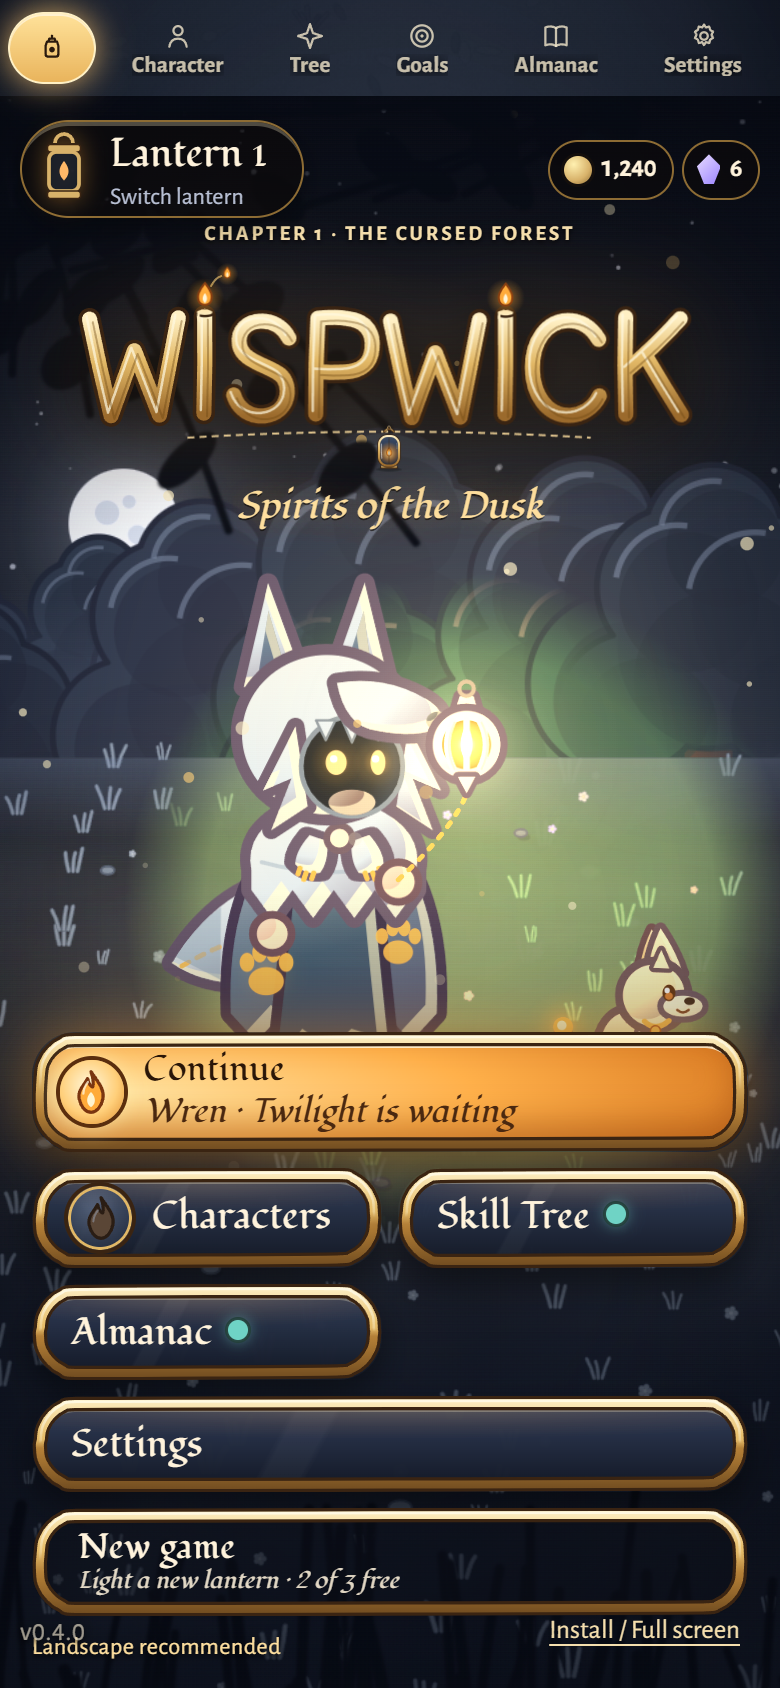
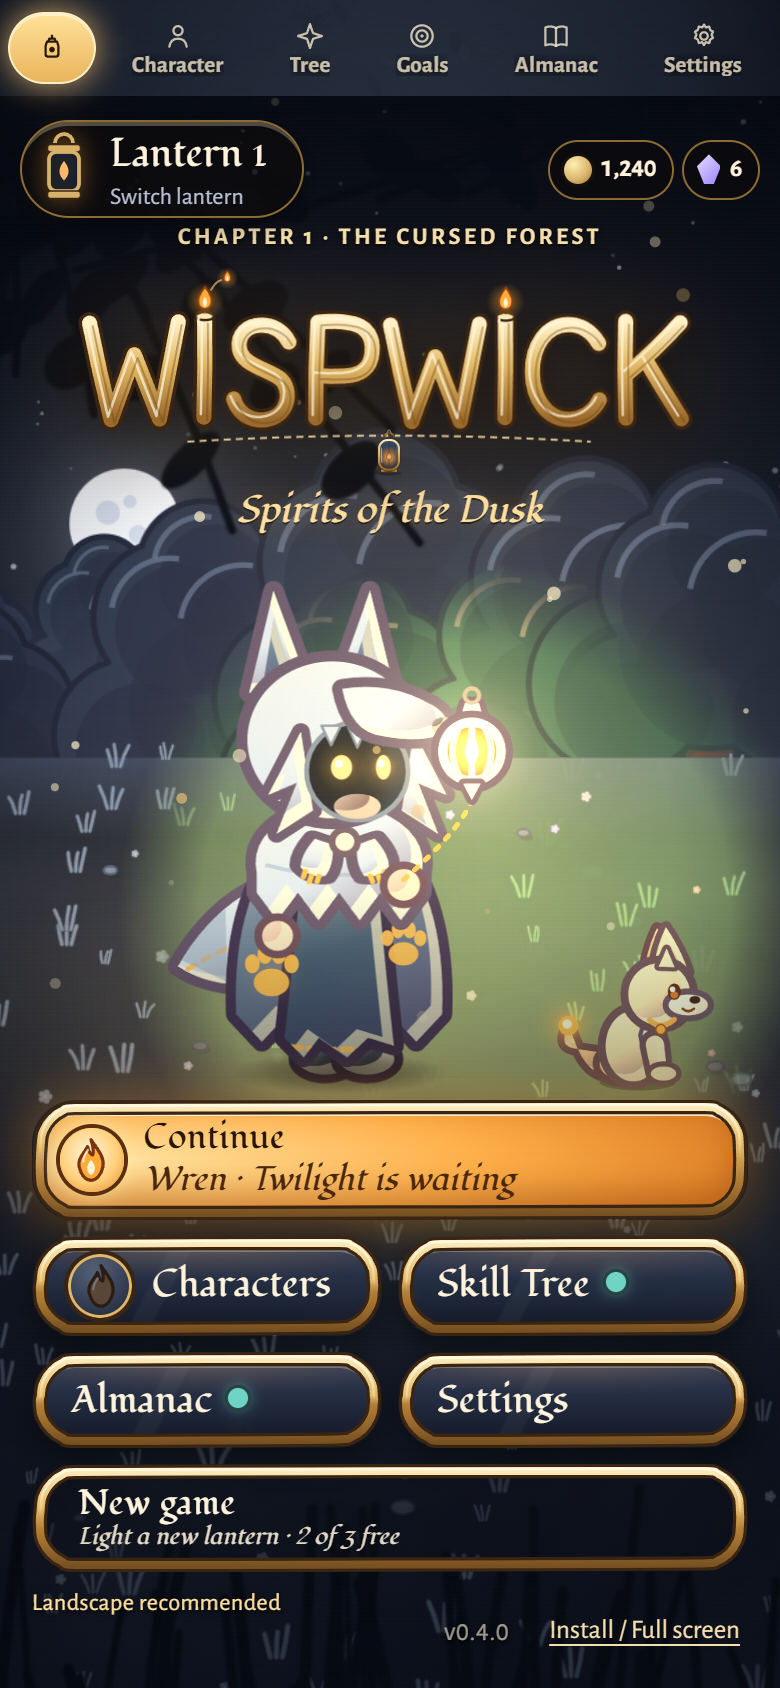
Title cover: layout fixes, install card sheet, cache + bloom once, shots

diff --git a/src/ui/titlecover.css b/src/ui/titlecover.css
@@ -43,7 +43,7 @@ html.reduced-motion .overlay.u3.tc-on .lg-wm-flame path { animation: none; }
 .overlay.u3.tc-on.tc-m-portrait .u3-col { flex: 1 1 auto; min-height: 0; width: 100%; max-width: none; align-items: stretch; justify-content: space-between; gap: 8px; }
 .overlay.u3.tc-on.tc-m-portrait .u3-brand { align-items: center; text-align: center; gap: 4px; }
 .overlay.u3.tc-on.tc-m-portrait .u3-h1 { width: min(88%, 330px); }
-.overlay.u3.tc-on.tc-m-portrait .u3-kicker { font-size: 10.5px; }
+.overlay.u3.tc-on.tc-m-portrait .u3-kicker { font-size: 12px; }
 .overlay.u3.tc-on.tc-m-portrait .u3-tagline { font-size: 19px; }
 .overlay.u3.tc-on.tc-m-portrait .u3-side { align-items: stretch; gap: 6px; }
 .overlay.u3.tc-on.tc-m-portrait .u3-menu.fd-menu2, .overlay.u3.tc-on.tc-m-portrait .u3-menu.fd-menu2:has(.fd-row3), .overlay.u3.tc-on.tc-m-portrait .u3-menu.fd-menu2:has(.ch-btn):has(.fd-row3) { width: 100%; grid-template-columns: repeat(2, minmax(0, 1fr)); gap: 8px; }
@@ -64,7 +64,7 @@ html.reduced-motion .overlay.u3.tc-on .lg-wm-flame path { animation: none; }
 .overlay.u3.tc-on.tc-m-landscape .u3-col { flex: 1 1 auto; min-height: 0; flex-direction: column; align-items: stretch; justify-content: space-between; width: 56%; max-width: none; gap: 6px; }
 .overlay.u3.tc-on.tc-m-landscape .u3-brand { flex: none; align-items: flex-start; text-align: left; gap: 3px; }
 .overlay.u3.tc-on.tc-m-landscape .u3-h1 { width: min(100%, 236px); padding-top: 0; }
-.overlay.u3.tc-on.tc-m-landscape .u3-kicker { font-size: 10px; }
+.overlay.u3.tc-on.tc-m-landscape .u3-kicker { font-size: 12px; }
 .overlay.u3.tc-on.tc-m-landscape .u3-tagline { font-size: 16px; }
 .overlay.u3.tc-on.tc-m-landscape .u3-side { flex: none; align-items: stretch; gap: 6px; }
 .overlay.u3.tc-on.tc-m-landscape .u3-menu.fd-menu2, .overlay.u3.tc-on.tc-m-landscape .u3-menu.fd-menu2:has(.fd-row3), .overlay.u3.tc-on.tc-m-landscape .u3-menu.fd-menu2:has(.ch-btn):has(.fd-row3) { width: 100%; grid-template-columns: repeat(4, minmax(0, 1fr)); gap: 6px; }
@@ -81,4 +81,13 @@ html.reduced-motion .overlay.u3.tc-on .lg-wm-flame path { animation: none; }
 .overlay.u3.tc-on.tc-m-landscape .u3-hint, .overlay.u3.tc-on.tc-m-landscape .u3-orient, .overlay.u3.tc-on.tc-m-landscape .pwa-text { display: none; }
 /* phones: the version and the install link sit bottom right (as in the sandbox), clear of the menu column and the orientation line */
 .overlay.u3.tc-on.tc-m-portrait .u3-foot, .overlay.u3.tc-on.tc-m-landscape .u3-foot { justify-content: flex-end; gap: 10px; }
-.overlay.u3.tc-on.tc-m-portrait .u3-foot .pwa-link, .overlay.u3.tc-on.tc-m-landscape .u3-foot .pwa-link { margin-left: 0; min-height: 0; padding: 0 4px; }
+.overlay.u3.tc-on.tc-m-portrait .u3-foot .pwa-link, .overlay.u3.tc-on.tc-m-landscape .u3-foot .pwa-link { margin-left: 0; }
+
+/* first visit only: the install card must never push the picture or the menu around. Phones: a sheet over the bottom (Not now closes it); short desktops: no benefit paragraph. */
+.overlay.u3.tc-on.tc-m-portrait .u3-side .pwa-slot, .overlay.u3.tc-on.tc-m-landscape .u3-side .pwa-slot { position: fixed; z-index: 6; left: 12px; right: 12px; bottom: 40px; width: auto; }
+.overlay.u3.tc-on.tc-m-landscape .u3-side .pwa-slot { left: auto; width: min(420px, 48%); bottom: 8px; }
+.overlay.u3.tc-on.tc-m-portrait .pwa-card, .overlay.u3.tc-on.tc-m-landscape .pwa-card { background: linear-gradient(180deg, rgba(40, 52, 78, .97), rgba(20, 26, 42, .98)); }
+@media (max-height: 760px) { .overlay.u3.tc-on.tc-m-desktop .pwa-text { display: none; } }
+.overlay.u3.tc-on.tc-m-desktop .u3-side .pwa-slot { position: fixed; z-index: 6; right: 24px; bottom: 40px; left: auto; width: 320px; }
+.overlay.u3.tc-on.tc-m-desktop .pwa-card { background: linear-gradient(180deg, rgba(40, 52, 78, .97), rgba(20, 26, 42, .98)); }
+.overlay.u3.tc-on.tc-m-desktop .pwa-text { display: none; }
